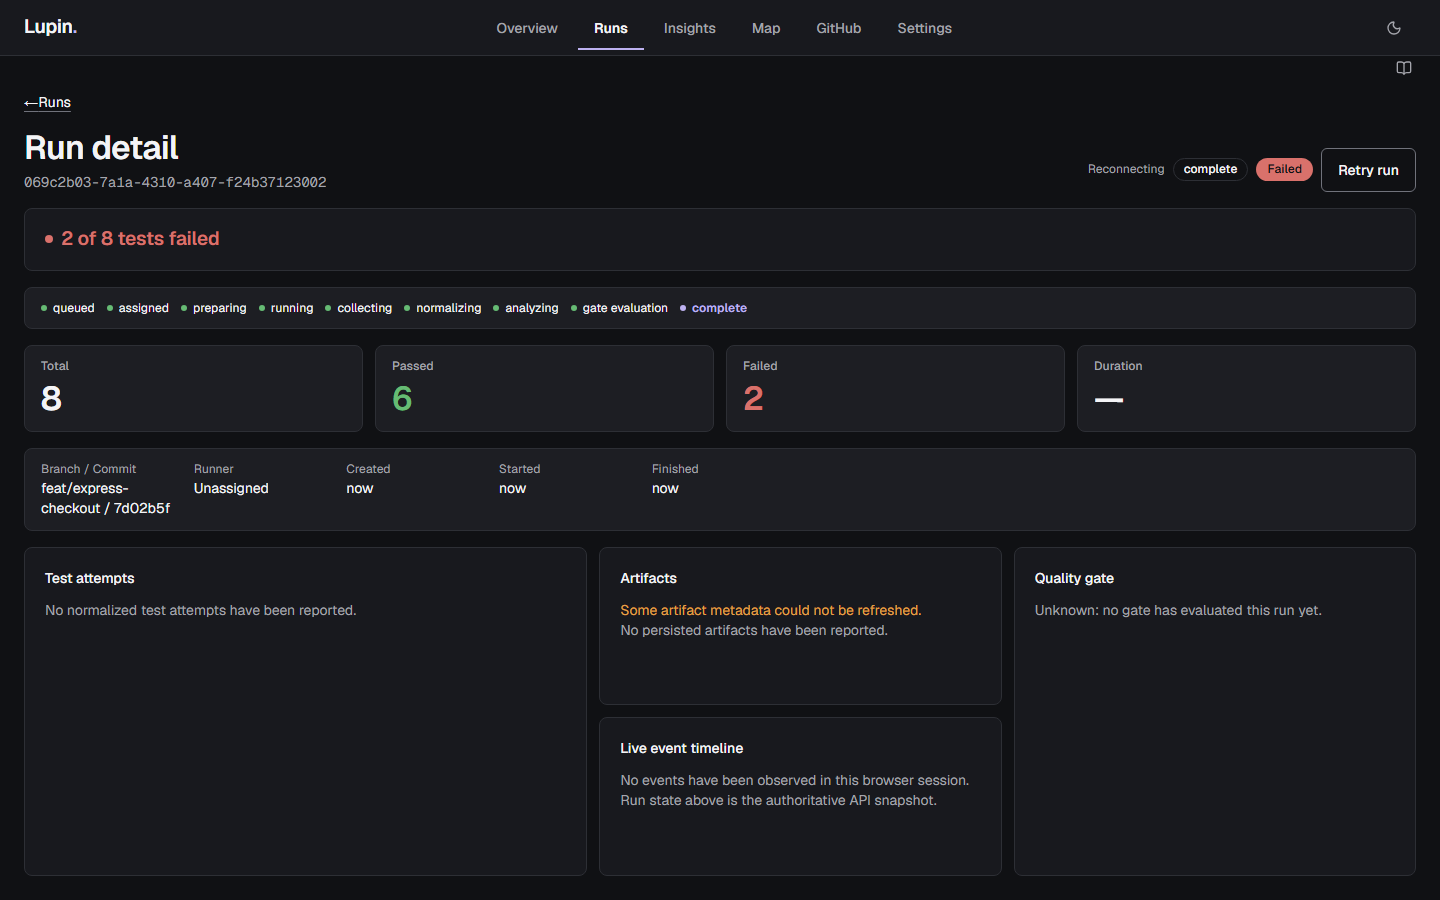
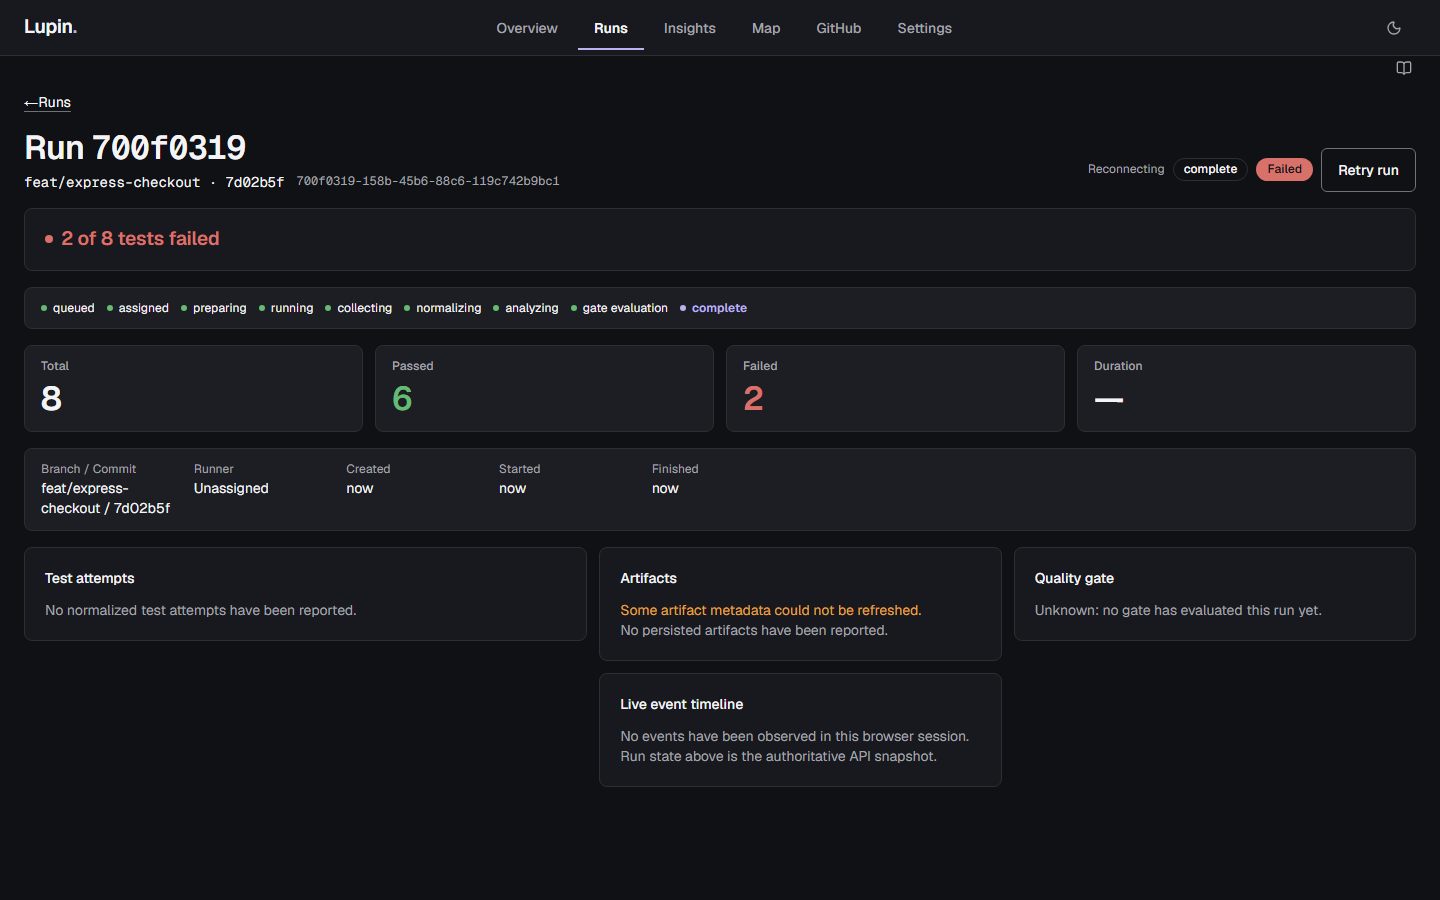
feat(web): an empty evidence panel shrinks to its sentence

Changed region(s): [[0.4062, 0.7778, 0.6875, 0.9022], [0.0, 0.1244, 0.375, 0.2178]]

diff --git a/apps/web/src/routes/dashboard/run-detail.tsx b/apps/web/src/routes/dashboard/run-detail.tsx
@@ -1,6 +1,6 @@
 import React, { useState } from 'react';
 import { createRoute } from '@tanstack/react-router';
-import { Badge, Button, EmptyState, StatusDot } from '@lupin/ui';
+import { Badge, Button, EmptyState, StatusDot, cn } from '@lupin/ui';
 import type { CockpitWindow, RunPhase } from '@lupin/shared-contracts';
 import { Route as dashboardRoute } from '../dashboard.js';
 import { useRunDetail } from '../../hooks/useDashboard.js';
@@ -763,10 +763,20 @@ function SummaryPanels({ run }: { run: Run }) {
   );
 }
 
+/**
+ * How an evidence panel takes space. With evidence it fills its column so a long list scrolls
+ * inside it; with none it is one sentence, and a full-height box around one sentence reads as a
+ * missing page rather than as an answer. `self-start` because the test panel is a grid cell,
+ * which stretches regardless of flex.
+ */
+function evidenceFit(hasEvidence: boolean): string {
+  return hasEvidence ? 'flex-1' : 'flex-none self-start w-full';
+}
+
 function TestPanel({ run }: { run: Run }) {
   return (
     <>
-      <Panel title="Test attempts" className="flex-1">
+      <Panel title="Test attempts" className={evidenceFit(run.tests.length > 0)}>
         <div
           tabIndex={0}
           role="region"
@@ -789,7 +799,7 @@ function ArtifactPanel({
 }) {
   return (
     <>
-      <Panel title="Artifacts" className="min-h-0 flex-1">
+      <Panel title="Artifacts" className={cn('min-h-0', evidenceFit(artifacts.length > 0))}>
         {evidenceError ? (
           <p className="max-w-measure text-pretty text-sm text-warning">
             Some artifact metadata could not be refreshed.
@@ -832,7 +842,7 @@ function ArtifactPanel({
 function EventPanel({ events }: { events: RunDetailState['events'] }) {
   return (
     <>
-      <Panel title="Live event timeline" className="min-h-0 flex-1">
+      <Panel title="Live event timeline" className={cn('min-h-0', evidenceFit(events.length > 0))}>
         {events.length > 0 ? (
           <div
             tabIndex={0}
@@ -874,7 +884,11 @@ function GatePanel({
 }) {
   return (
     <>
-      <Panel title="Quality gate" data-testid="run-gate" className="min-h-0 flex-1">
+      <Panel
+        title="Quality gate"
+        data-testid="run-gate"
+        className={cn('min-h-0', evidenceFit(gate !== null && gate !== undefined))}
+      >
         {gate ? (
           <>
             <Badge className="self-start" variant={gateTone(gate.status)}>

diff --git a/apps/web/src/routes/dashboard/run-detail.test.tsx b/apps/web/src/routes/dashboard/run-detail.test.tsx
@@ -284,6 +284,27 @@ describe('RunDetailPage', () => {
     expect(screen.getByTestId('run-ref')).toHaveTextContent('feat/express-checkout · 7d02b5f');
   });
 
+  it('shrinks an empty evidence panel to its sentence, and lets a full one fill its column', async () => {
+    render(
+      <RunDetailPage
+        id="empty-evidence"
+        api={detailApi(makeRun({ id: 'empty-evidence', tests: [], artifacts: [] }))}
+      />,
+    );
+    await screen.findByTestId('run-detail-page');
+    for (const name of ['Test attempts', 'Artifacts', 'Live event timeline']) {
+      const panel = screen.getByRole('region', { name });
+      expect(panel, name).toHaveClass('flex-none');
+      expect(panel, name).not.toHaveClass('flex-1');
+    }
+  });
+
+  it('keeps a panel with evidence filling its column', async () => {
+    render(<RunDetailPage id="run-123" api={detailApi(passedRun)} />);
+    await screen.findByTestId('run-detail-page');
+    expect(screen.getByRole('region', { name: 'Test attempts' })).toHaveClass('flex-1');
+  });
+
   it('renders loading state initially', () => {
     const api = detailApi(passedRun, { getRun: vi.fn(() => new Promise<Run>(() => undefined)) });
     render(<RunDetailPage id="run-123" api={api} />);
